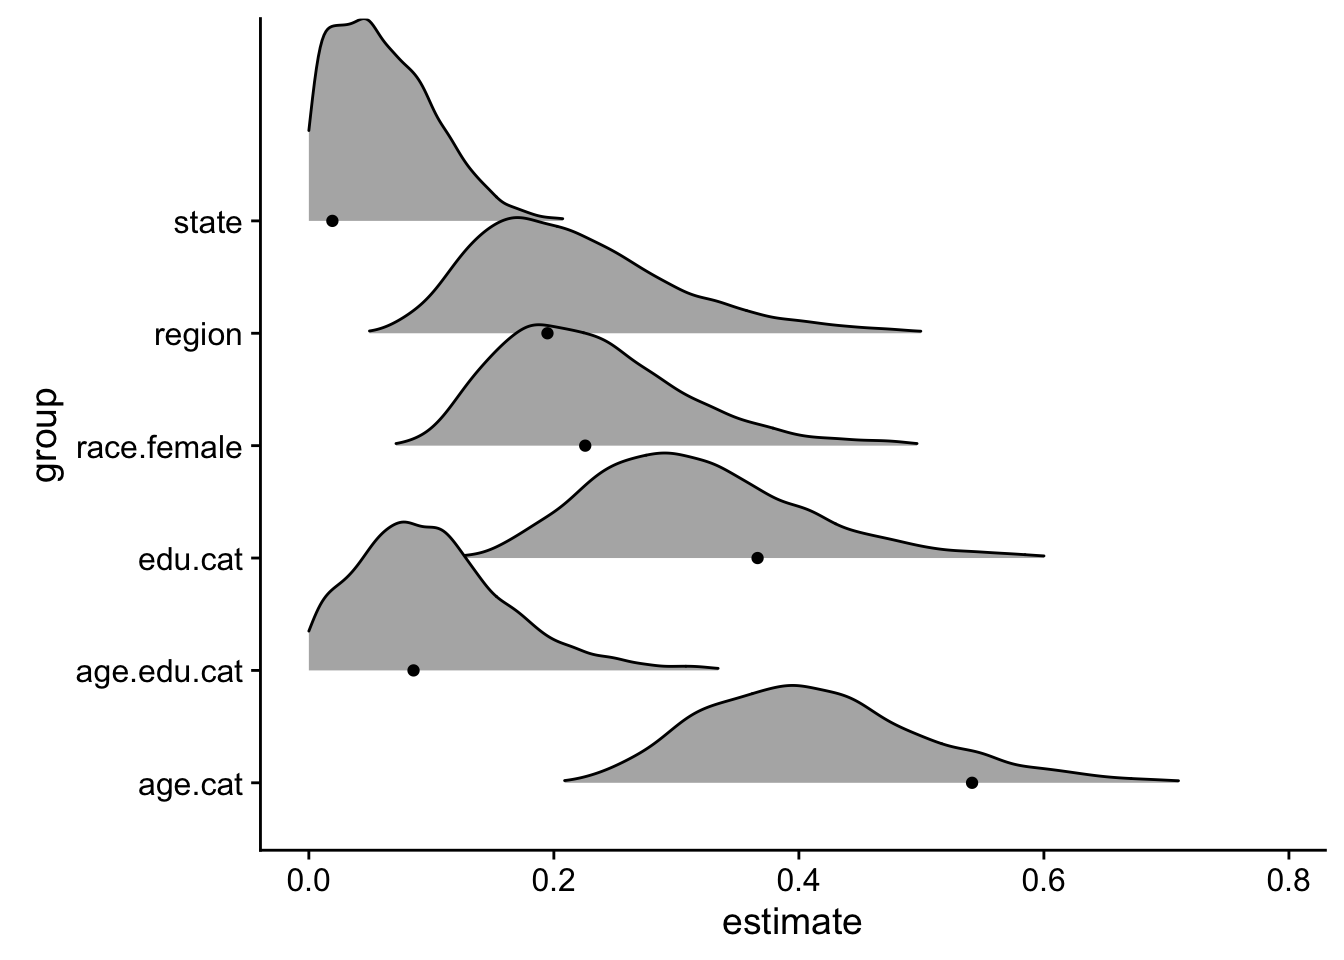
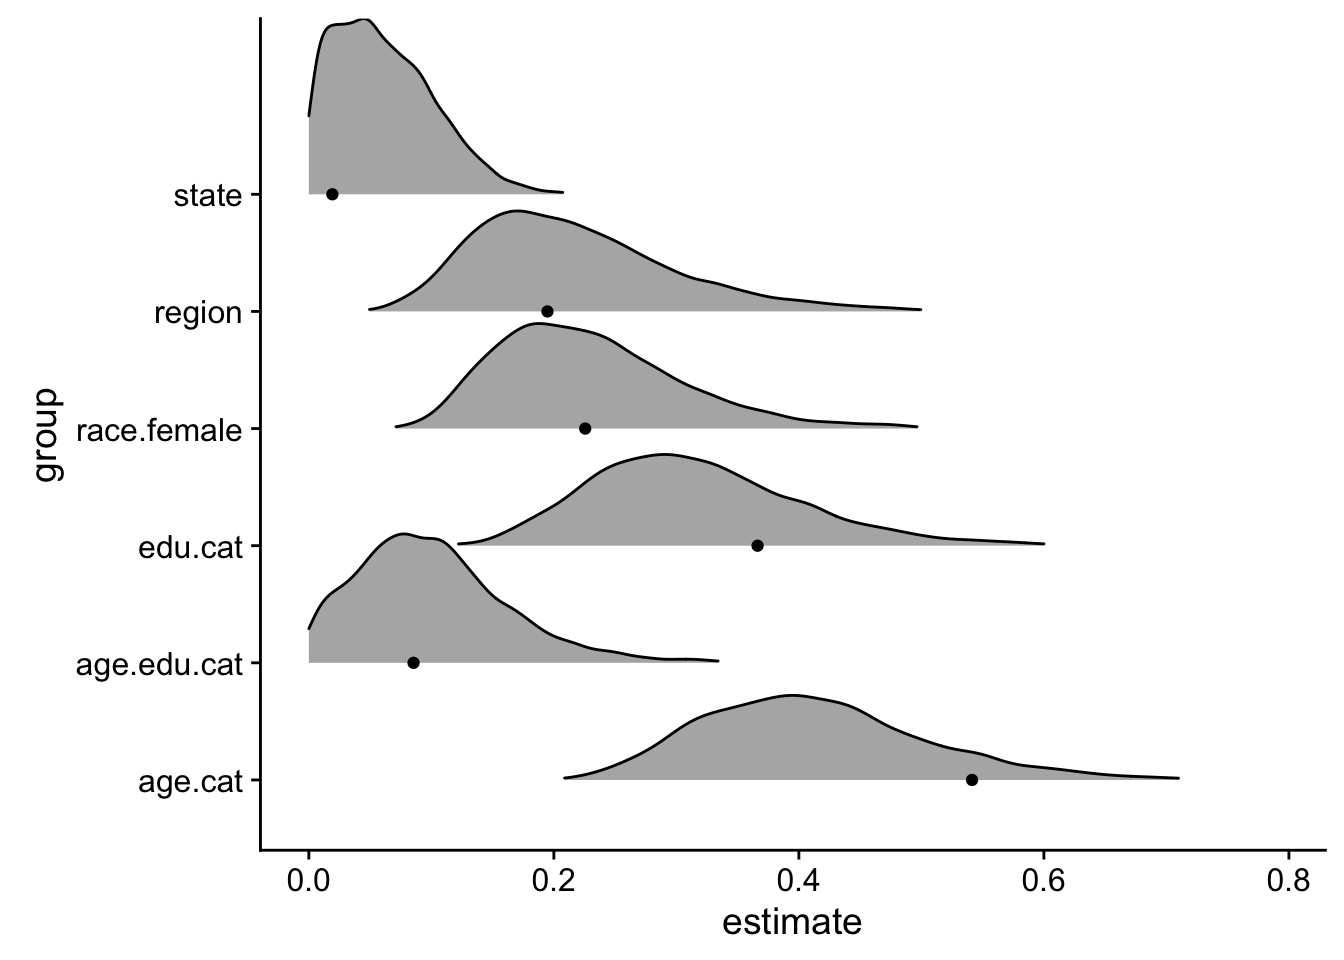
new scale

diff --git a/content/blog/2017-11-19-multilevel-mrp-tidybayes-brms-stan.html b/content/blog/2017-11-19-multilevel-mrp-tidybayes-brms-stan.html
@@ -326,7 +326,8 @@ bayes.mod %&gt;%
   mutate(group = stringr::str_replace_all(term, c(&quot;sd_&quot; = &quot;&quot;,&quot;__Intercept&quot;=&quot;&quot;))) %&gt;%
   ggplot(aes(y=group, x = estimate)) + 
   ggridges::geom_density_ridges(aes(height=..density..),
-                                rel_min_height = 0.01, stat = &quot;density&quot;) + 
+                                rel_min_height = 0.01, stat = &quot;density&quot;,
+                                scale=1.5) + 
   geom_point(data=approx_sd)</code></pre>
 <p><img src="/blog/2017-11-19-multilevel-mrp-tidybayes-brms-stan_files/figure-html/unnamed-chunk-19-1.png" width="672" /></p>
 <pre class="r"><code># approx_sd &lt;- broom::tidy(individual.model) %&gt;%
